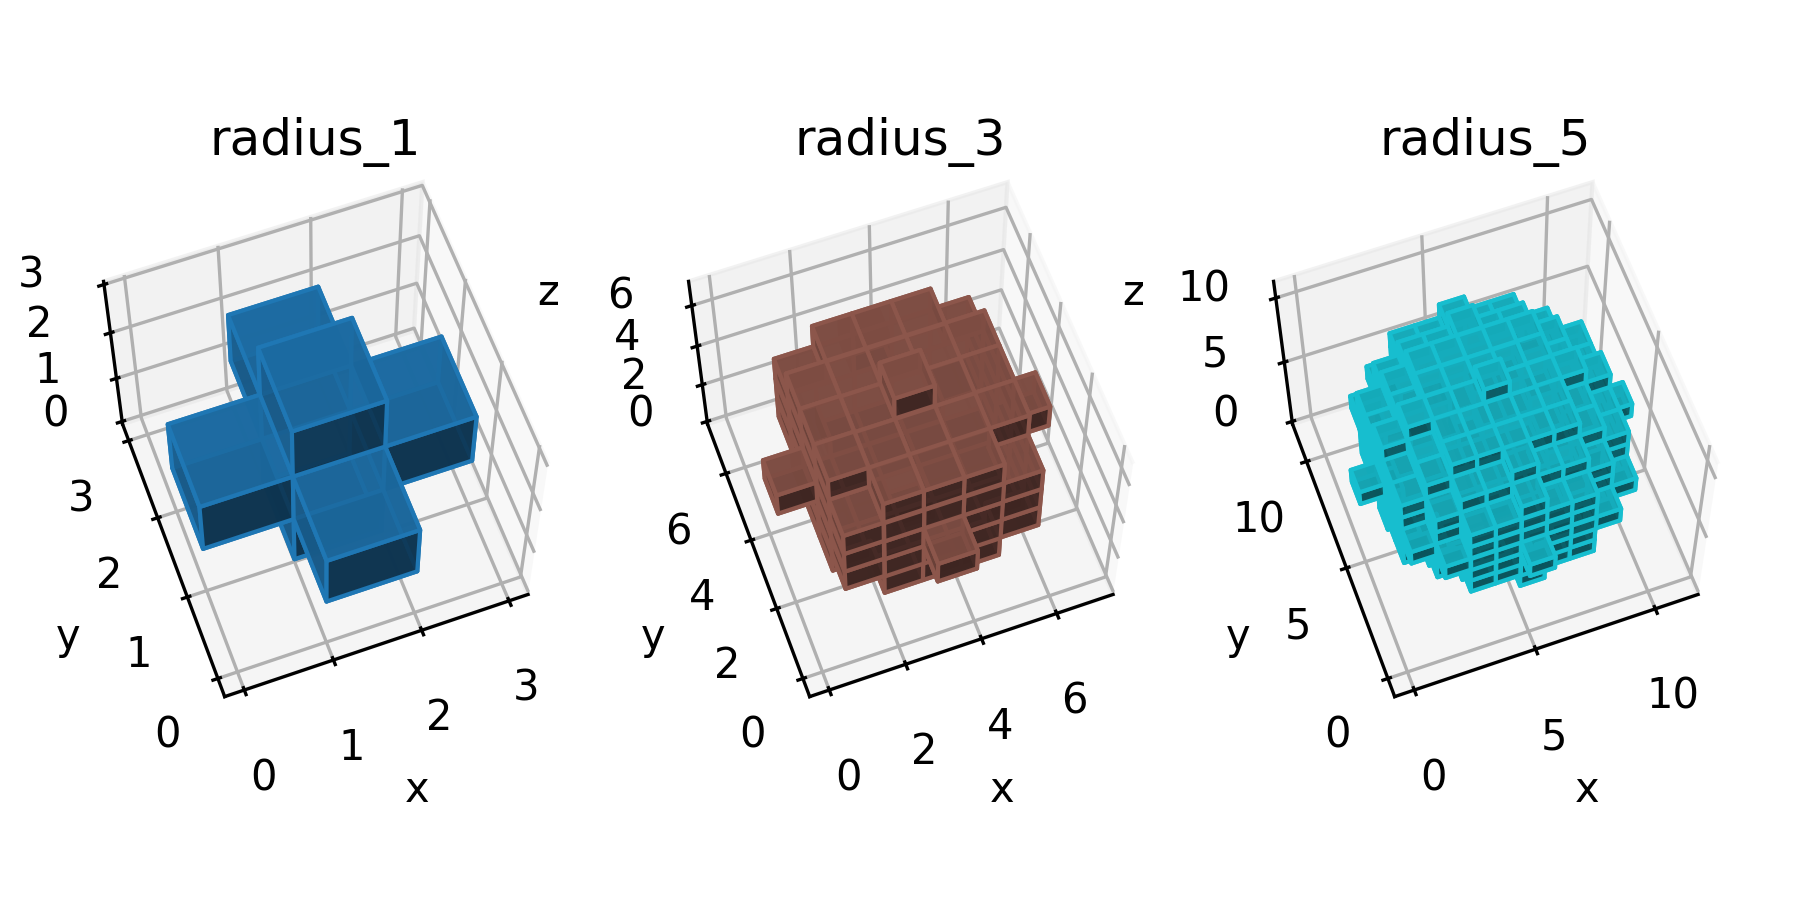
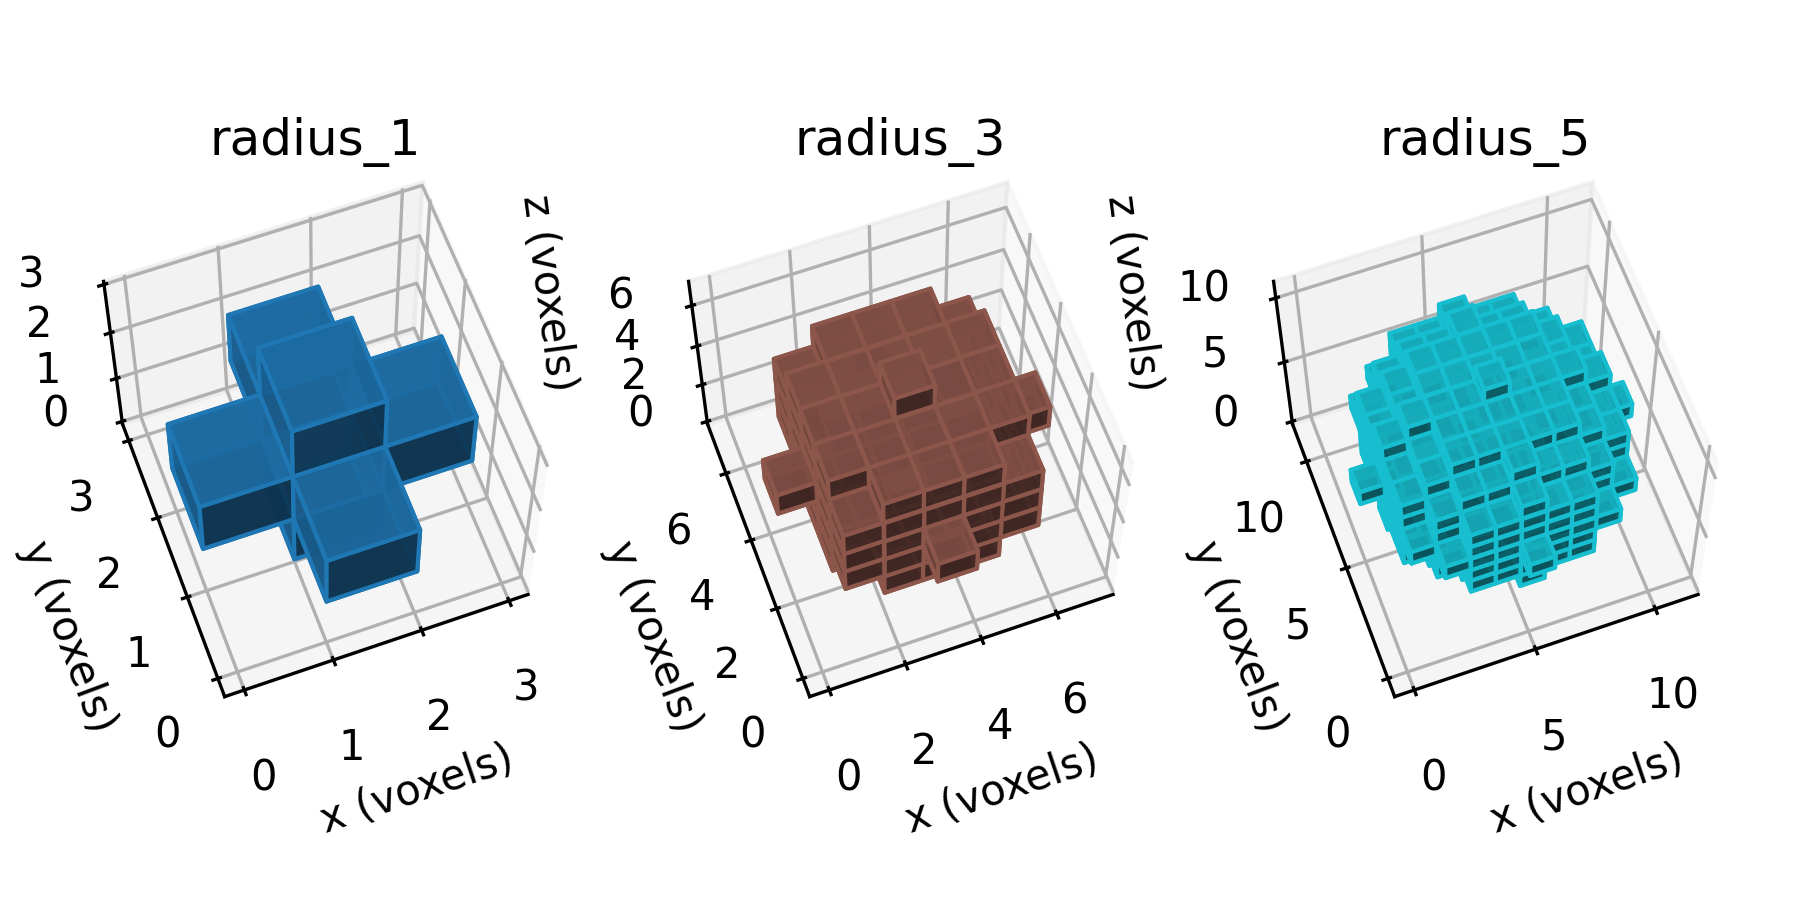
update iteration in spheres.py

diff --git a/book/examples/spheres/spheres.py b/book/examples/spheres/spheres.py
@@ -1,4 +1,9 @@
 """This module creates a voxelized sphere and exports it as a .npy file.
+
+Example
+-------
+source ~/autotwin/automesh/.venv/bin/activate
+python spheres.py
 """
 
 from pathlib import Path
@@ -95,33 +100,33 @@ serialize: Final[bool] = False  # turn to True to save .png and .npy files
 # User input end
 
 
+N_SUBPLOTS = len(spheres)
 IDX = 1
-for title, struc in spheres.items():
-    # for index (key, value) in enumerate(spheres.items()):
-    ax = fig.add_subplot(1, 3, IDX, projection=Axes3D.name)
+for index, (key, value) in enumerate(spheres.items()):
+    ax = fig.add_subplot(1, N_SUBPLOTS, index+1, projection=Axes3D.name)
     ax.voxels(
-        struc,
-        facecolors=colors[IDX-1],
-        edgecolor=colors[IDX-1],
+        value,
+        facecolors=colors[index],
+        edgecolor=colors[index],
         alpha=voxel_alpha,
         lightsource=lightsource)
-    ax.set_title(title)
+    ax.set_title(key)
     IDX += 1
 
     # Set labels for the axes
-    ax.set_xlabel("x")
-    ax.set_ylabel("y")
-    ax.set_zlabel("z")
+    ax.set_xlabel("x (voxels)")
+    ax.set_ylabel("y (voxels)")
+    ax.set_zlabel("z (voxels)")
 
     # Set the camera view
     ax.set_aspect("equal")
     ax.view_init(elev=el, azim=az, roll=roll)
 
     if serialize:
-        cc = aa.with_stem("spheres_" + title)
+        cc = aa.with_stem("spheres_" + key)
         dd = cc.with_suffix(".npy")
         # Save the data in .npy format
-        np.save(dd, struc)
+        np.save(dd, value)
         print(f"Saved: {dd}")
 
 fig.tight_layout()

diff --git a/book/examples/spheres_cont/README.md b/book/examples/spheres_cont/README.md
@@ -62,3 +62,5 @@ error: unexpected argument '-2' found
 ```
 
 ### Meshes
+
+Figure (to come): Sphere segmentations at selected resolutions, shown in the finite element domain with cutting plane to expose interior structure.
